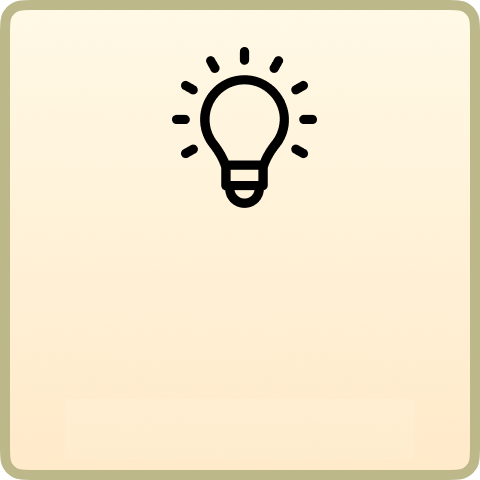
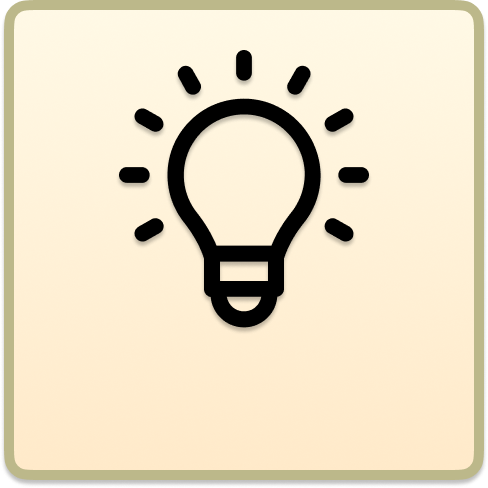
fixed images, persistent weight

diff --git a/iot.js b/iot.js
@@ -67,9 +67,11 @@ socket.onmessage = (event) => {
         // Update the image source based on the state
         var newImageSrc = thing2State ? "img_ONlamp.png" : "img_OFFlamp.png";
 
-        document.querySelectorAll('.slide2 .tranding-slide-img img').forEach(function(el) {
-          el.src = newImageSrc;
-        });
+        document
+          .querySelectorAll(".slide2 .tranding-slide-img img")
+          .forEach(function (el) {
+            el.src = newImageSrc;
+          });
 
         // if (thing2State) {
         //   //if its on, change the icon image
@@ -90,11 +92,15 @@ socket.onmessage = (event) => {
 
       if (receivedData.event.data.entity_id === "switch.thing1") {
         thing1State = receivedData.event.data.new_state.state === "on";
-        var newImageSrc = thing1State ? "img_ONKitchenLight.png" : "img_OFFKitchenLight.png";
+        var newImageSrc = thing1State
+          ? "img_ONKitchenLight.png"
+          : "img_OFFKitchenLight.png";
 
-        document.querySelectorAll('.slide3 .tranding-slide-img img').forEach(function(el) {
-          el.src = newImageSrc;
-        });
+        document
+          .querySelectorAll(".slide3 .tranding-slide-img img")
+          .forEach(function (el) {
+            el.src = newImageSrc;
+          });
       }
       if (
         receivedData.event.data.entity_id ===
@@ -124,40 +130,71 @@ socket.onmessage = (event) => {
           console.log("Weight Array: " + weightArray);
 
           if (instantWeight < 30) {
+            // Assuming weightArray is defined and populated elsewhere in your code
+
+            // Trim the array
             weightArray.splice(0, 3);
             weightArray.splice(weightArray.length - 3, 3);
-            console.log("trimmed Weight Array: " + weightArray);
-            aveWeight = calculateMean(weightArray);
-            console.log("average weight = " + aveWeight);
-            let stabilityIndex =
-              Math.max(...weightArray) - Math.min(...weightArray);
-            const weightbox = document.getElementById("weightbox");
-            weightbox.innerHTML = aveWeight.toFixed(1) + " Kg";
-            const stablebox = document.getElementById("stablebox");
-            stablebox.innerHTML = stabilityIndex.toFixed(1);
+
+            // Filter out NaN and Infinity values from weightArray
+            weightArray = weightArray.filter(
+              (weight) => !isNaN(weight) && isFinite(weight)
+            );
+
+            // Check if there are valid values in weightArray
+            if (weightArray.length > 0) {
+              // Calculate the average weight
+              const aveWeight = calculateMean(weightArray);
+
+              // Calculate stability index
+              const stabilityIndex =
+                Math.max(...weightArray) - Math.min(...weightArray);
+
+              // Create an object for today's weight
+              const todaysWeight = {
+                weight: aveWeight.toFixed(1),
+                Stability: stabilityIndex.toFixed(1),
+                date: new Date(),
+              };
+
+              // Display the results on the page
+              const weightbox = document.getElementById("weightbox");
+              weightbox.innerHTML = todaysWeight.weight + " Kg";
+
+              const stablebox = document.getElementById("stablebox");
+              stablebox.innerHTML = todaysWeight.Stability;
+
+              // Retrieve existing data from localStorage
+              let existingData = localStorage.getItem("weightHistory");
+
+              // Parse the existing data or initialize with an empty array if it doesn't exist yet
+              let allWeights = existingData ? JSON.parse(existingData) : [];
+
+              // Log the existing data
+              console.log("Existing Weight History:", allWeights);
+
+              // Add today's weight to the array
+              allWeights.push(todaysWeight);
+
+              // Stringify the array and store it back in localStorage
+              localStorage.setItem("weightHistory", JSON.stringify(allWeights));
+
+              // Log the updated data
+              console.log("Updated Weight History:", allWeights);
+            } else {
+              console.log("No valid weights to calculate. Skipping update.");
+            }
           }
         }
-        // if (
-        //   receivedData.event.data.entity_id ===
-        //   "binary_sensor.g8t1_sj02_3294_01vr_motion"
-        // ) {
-        //   const closeModalButton = document.getElementById("closeModalButton");
-        //   const modal = document.getElementById("modalBox");
-        //   modal.style.display = "flex";
-
-        //   // Clear the previous chart, if any
-        //   const modalContent = document.querySelector(".modal-content");
-        //   modalContent.innerHTML =
-        //     '<canvas>  <iframe src="URL_TO_YOUR_HOME_ASSISTANT_LOVELACE_UI" width="100%"          height="600px" frameborder="0" allowfullscreen></iframe> </canvas>';
-
-        //   closeModalButton.addEventListener("click", () => {
-        //     modal.style.display = "none";
-        //   });
-        // }
       }
 
       // initial state sensing
-
+      if (receivedData.type === sensor.temperature_sensor) {
+        const instantTemp = receivedData.event.data.new_state.state;
+        console.log("instantTemp", instantTemp);
+        const tempbox = document.getElementById("Temp");
+        tempbox.innerHTML = instantTemp + " &deg;C";
+      }
       if (
         receivedData.type === "result" &&
         Array.isArray(receivedData.result)

diff --git a/smartLoftCarousel.html b/smartLoftCarousel.html
@@ -22,7 +22,7 @@
       const translationResources = {
         en: {
           translation: {
-            home_image: "homeButton_en.png",
+            // home_image: "homeButton_en.png",
             smart_loft: "SmartLoft",
             all_lights: "All Lights",
             bedroom: "Bedroom",
@@ -35,7 +35,7 @@
         },
         fr: {
           translation: {
-          home_image: "homeButton_fr.png",
+          // home_image: "homeButton_fr.png",
           smart_loft: "LoftAstucieux",
           all_lights: "Toutes Lumières",
           bedroom: "Chambre",
@@ -142,7 +142,7 @@
             <!-- Slide-start -->
             <div class="swiper-slide tranding-slide slide1" onclick="allOnOffLocal()">
               <div class="tranding-slide-img">
-                <img id="allLightsIcon" src="img_ONAlllights.png" alt="All lights on">
+                <img id="allLightsIcon" src="img_ONallLights.png" alt="All lights on">
               </div>
                            
               <div class="tranding-slide-content">
@@ -161,7 +161,7 @@
             <div class="swiper-slide tranding-slide slide2"  onclick="localToggleSwitch()">
               <div class="tranding-slide-img">
                 <div id="bedroomLamp"></div>
-                <img id="switch" src="img_ONlamp.png" alt="Lamp" >
+                <img id="switch" src="img_OnLamp.png" alt="Lamp" >
               </div>
               <div class="tranding-slide-content">
                 
@@ -176,7 +176,7 @@
             <!-- Slide-start -->
             <div class="swiper-slide tranding-slide slide3" onclick="localToggleSwitchKitchen()">
               <div class="tranding-slide-img">
-                <img src="img_ONKitchenLight.png" alt="Kitchen light">
+                <img src="img_OnKitchenLight.png" alt="Kitchen light">
               </div>
               <div class="tranding-slide-content">
                
@@ -191,7 +191,7 @@
             <!-- Slide-start -->
             <div class="swiper-slide tranding-slide slide4">
               <div class="tranding-slide-img">
-                <img src="img_ONoutdoorlight.png" alt="outdoor light">
+                <img src="img_OnOutdoorLight.png" alt="outdoor light">
               </div>
               <div class="tranding-slide-content">
                 
@@ -205,7 +205,7 @@
             <!-- Slide-start -->
             <div class="swiper-slide tranding-slide slide5">
               <div class="tranding-slide-img">
-                <img src="img_ONdoorlock.png" alt="Door lock">
+                <img src="img_OnDoorLock.png" alt="Door lock">
               </div>
               <div class="tranding-slide-content">
                 
@@ -219,10 +219,10 @@
              <!-- Slide-start -->
              <div class="swiper-slide tranding-slide slide6">
               <div class="tranding-slide-img">
-                <img src="img_ONTemp.png" alt="Temp">
+                <img src="img_Temp.png" alt="Temp">
               </div>
               <div class="tranding-slide-content">
-                
+                <div id="Temp"></div>
                 <div class="tranding-slide-content-bottom">
                   <p>Temperature</p>
                  
@@ -249,7 +249,7 @@
       <div class="lower">
         <img
           id="homeButtonID"
-          src="homeButton.png"
+          src="img_Home.png"
           alt="home"
           onclick="window.location.href='menuCarousel.html';"
           class="item"
@@ -277,7 +277,7 @@
         lightsAreOn = !lightsAreOn;
     
         // Update the image source based on the state
-        var newImageSrc = lightsAreOn ? "img_ONAlllights.png" : "img_OFFAlllights.png";
+        var newImageSrc = lightsAreOn ? "img_OnAllLights.png" : "img_OffAllLights.png";
         document.querySelectorAll('.slide1 .tranding-slide-img img').forEach(function(el) {
           el.src = newImageSrc;
         });
@@ -301,7 +301,7 @@
         lampIsOn = !lampIsOn;
 
         // Update the image source based on the state
-        var newImageSrc = lampIsOn ? "img_ONlamp.png" : "img_OFFlamp.png";
+        var newImageSrc = lampIsOn ? "img_OnLamp.png" : "img_OffLamp.png";
         document.querySelectorAll('.slide2 .tranding-slide-img img').forEach(function(el) {
           el.src = newImageSrc;
         });
@@ -320,7 +320,7 @@
         kitchenLampIsOn = !kitchenLampIsOn;
 
         // Update the image source based on the state
-        var newImageSrc = kitchenLampIsOn ? "img_ONKitchenLight.png" : "img_OFFKitchenLight.png";
+        var newImageSrc = kitchenLampIsOn ? "img_OnKitchenLight.png" : "img_OffKitchenLight.png";
         document.querySelectorAll('.slide3 .tranding-slide-img img').forEach(function(el) {
           el.src = newImageSrc;
         });

diff --git a/smartLoftCarousel.css b/smartLoftCarousel.css
@@ -152,8 +152,8 @@ align-items: space-between;
   width: 37rem;
   height: 42rem;
   border-radius: 2rem;
-  object-fit: cover;
-  border: 15px solid #BCB88A;
+  object-fit: fill;
+  /* border: 10px solid #BCB88A; */
 }
 
 .tranding-slide .tranding-slide-content {
